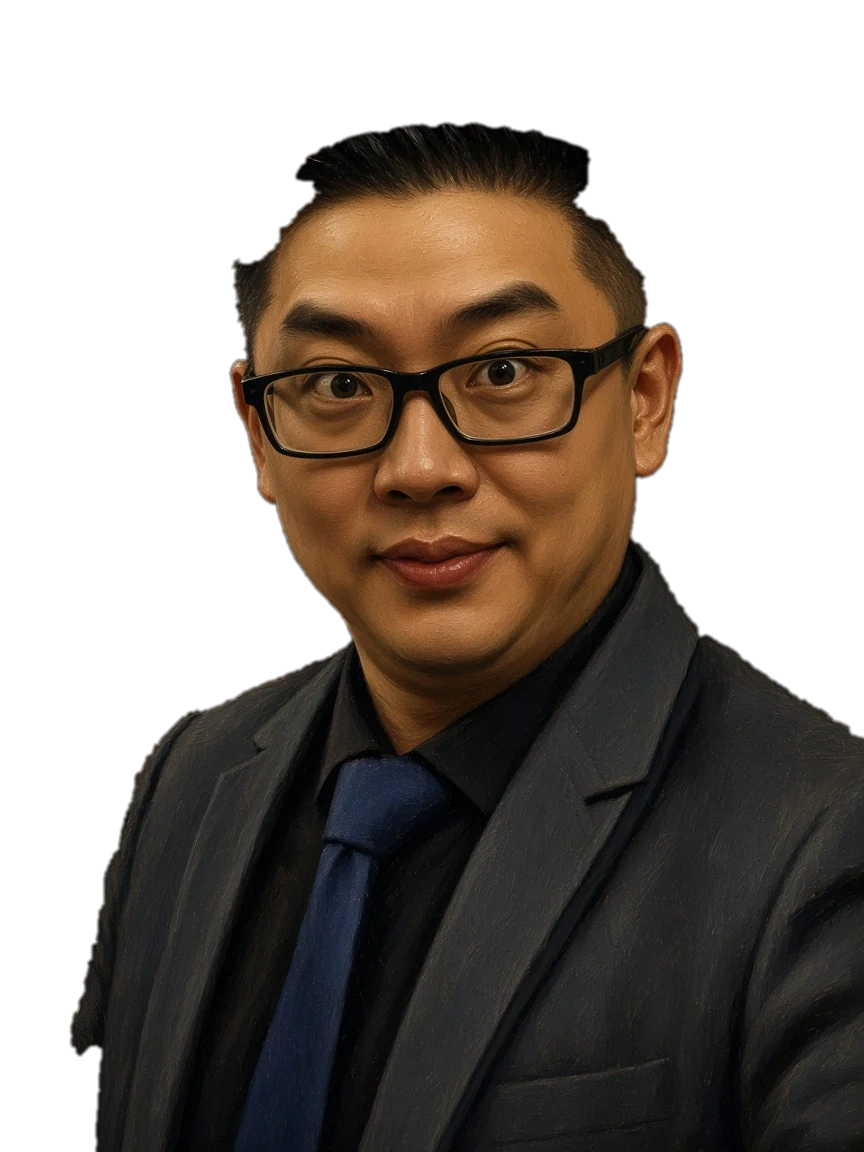
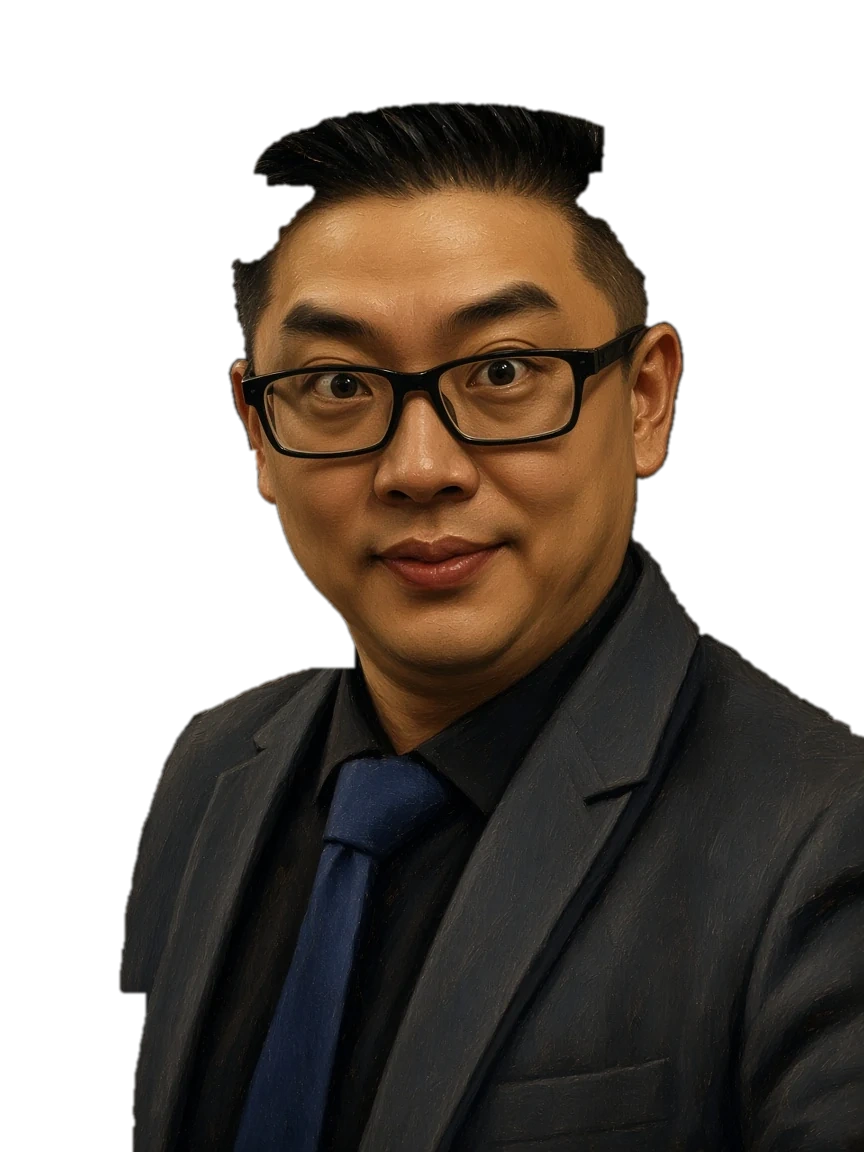
Restore the harsh customer hair cap and trim the leftover dark fringe on the left jacket.

diff --git a/frontend/src/utils/imageUrl.ts b/frontend/src/utils/imageUrl.ts
@@ -26,7 +26,7 @@ export function getImageUrl(path: string | null | undefined): string | null {
   const url = `${BACKEND_HTTP_BASE}${webpPath}`
   // 顾客立绘、卡面曾被长缓存；换 query 才能立刻拿到新图
   if (/\/images\/(customer|cards)\//i.test(webpPath)) {
-    return `${url}?v=20261001h`
+    return `${url}?v=20261001i`
   }
   return url
 }
